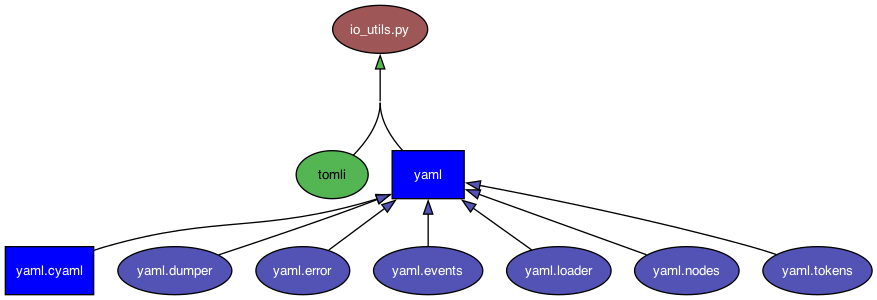
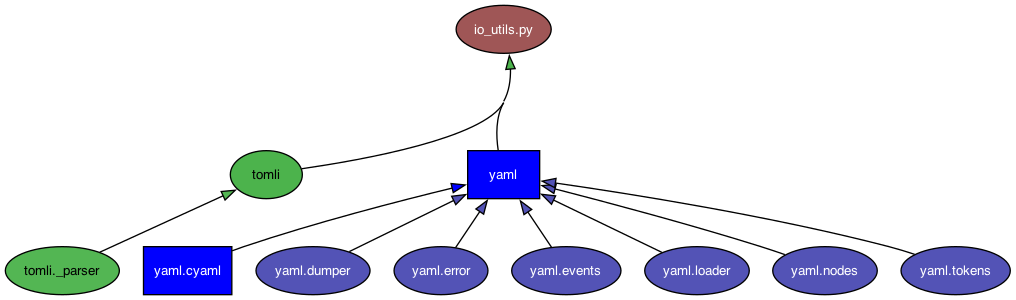
add in provenance script and update conf.py to 1.0.1

diff --git a/src/utilities/provenance.py b/src/utilities/provenance.py
@@ -20,6 +20,7 @@ def makestep(filemeta):
     step = {}
     step["did"] = filemeta["namespace"] + ":" + filemeta["name"]
     step["fid"] = filemeta["fid"]
+    step["size"] = filemeta["size"]
     step["namespace"] = filemeta["namespace"]
     step["name"] = filemeta["name"]
     #step["metadata"] = filemeta["metadata"]
@@ -60,6 +61,7 @@ def makestep_from_merge(filemeta):
     step = {}
     step["did"] = filemeta["namespace"] + ":" + filemeta["name"]
     step["fid"] = filemeta["fid"]
+    step["size"] = filemeta["size"]
     step["namespace"] = filemeta["namespace"]
     step["created_timestamp"] = filemeta["created_timestamp"]
     step["name"] = filemeta["name"]
@@ -88,6 +90,7 @@ def makestep_from_origins(thefilemeta, steps):
         step = {}
         step["created_timestamp"] = thefilemeta["created_timestamp"]
         step["name"] = thefilemeta["name"]
+        step["size"] = thefilemeta["size"]
         step["namespace"] = thefilemeta["namespace"]
         step["fid"] = thefilemeta["fid"]
         step["data_tier"] = metadata["core.data_tier"]
@@ -138,13 +141,12 @@ def get_provenance(did =None,fid=None,steps=None):
 
     # special case for merge steps, which have the config file in a different metadata field and don't have parents, so we want to make the step before looking for parents
     if "merge.tag" in thefilemeta["metadata"]:
-        print ("making step from merge",did,fid)
+        if DEBUG: print ("making step from merge",did,fid)
         #try:
         step = makestep_from_merge(thefilemeta)
         #except Exception as e:
         #    print ("Error occurred while making step from merge", e,fid,did)
-    
-        
+       
     else:
         try:
             if DEBUG: print ("making step from file",did,fid)
@@ -153,7 +155,6 @@ def get_provenance(did =None,fid=None,steps=None):
             print ("error:",e)
             print ("Error occurred while making step from file", e,fid,did)
            
-            
     #steps[step["config_file"]] = step
     steps = prepend(step, steps)
     #print ("steps in get_provenance",len(steps))
@@ -181,7 +182,7 @@ def output(args,allsteps):
             geo = astep["geometry_version"]
         if "generators" in astep:
             generator = astep["generators"]
-        print (f"{astep["date"]} {astep['appname']:<15} {astep['data_tier']:<20} {astep['appversion']:<12} {astep['campaign']:<20} {astep['config_file']}" ) 
+        print (f"{astep["date"]} {astep['appname']:<15} {astep['data_tier']:<20} {astep['size']:<12} {astep['appversion']:<12} {astep['campaign']:<20} {astep['config_file']}" ) 
     if gen != "":
         print (f"gen_fcl_filename: {gen}")
     if geo != "":
@@ -232,8 +233,9 @@ def main():
         args.did ="fardet-hd:prodbackground_radiological_decay0_dune10kt_1x2x6_centralAPA_20250802T061831Z_gen_001175_supernova_g4_detsim_reco.root"
     print ("Looking at provenance for did:",args.did)
     allsteps=[]
-    allsteps =get_provenance(did=args.did,fid=args.fid,steps=allsteps)
+    allsteps =get_provenance(did=args.did, fid=args.fid, steps=allsteps)
     output(args,allsteps)
     return 0
+
 if __name__ == "__main__":
     sys.exit(main())

diff --git a/docs/source/conf.py b/docs/source/conf.py
@@ -40,10 +40,10 @@ print ("PATH",sys.path)
 
 project = 'merge-utils'
 copyright = '2025, Fermi National Accelerator Laboratory'
-author = 'Heidi Schellman and Ethan Muldoon'
+author = 'Heidi Schellman and Ethan Muldoon\\ Oregon State University'
 
 # The full version, including alpha/beta/rc tags
-release = '0.8'
+release = '1.0.1'
 
 
 # -- General configuration ---------------------------------------------------